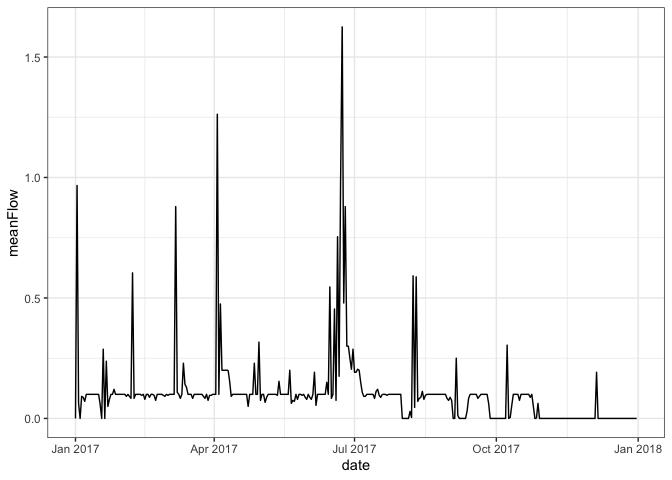
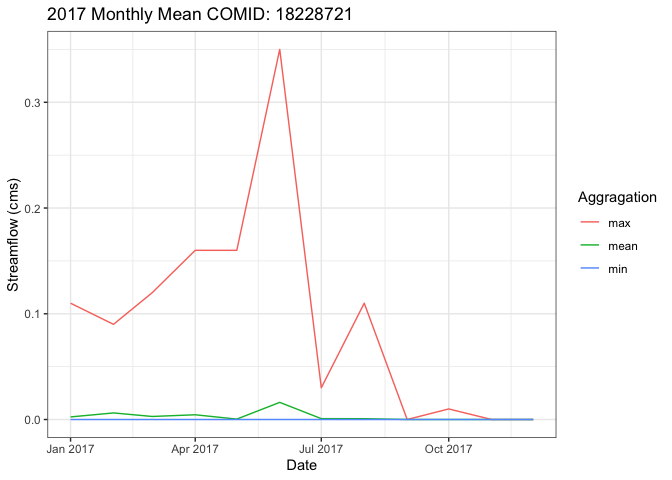
actually commit!

diff --git a/README.md b/README.md
@@ -18,7 +18,6 @@
     #> The following objects are masked from 'package:base':
     #> 
     #>     intersect, setdiff, setequal, union
-    #> USGS Support Package: https://owi.usgs.gov/R/packages.html#support
 
 ## Basic use
 
@@ -27,7 +26,7 @@ Lets find the historic flows nearest my home:
 ``` r
 
 pt  = AOI::geocode('University of Alabama', pt = TRUE) 
-comid = nhdplusTools::discover_nhdplus_id(pt)
+comid = discover_comid(pt)
 nhd = HydroData::findNHD(comid = comid)
 #> Returned object contains: 1 nhd flowlines
 
@@ -39,43 +38,51 @@ aoi_map(pt, returnMap = TRUE) %>% addPolylines(data = nhd$nhd)
 <img src="man/figures/README-unnamed-chunk-3-1.png" width="75%" />
 
 ``` r
-out = extract_retro_url(comid = comid)
+out = readNWMdata(comid = comid)
 
 head(out)
-#>   model    comid            time_utc flow year month day hour
-#> 1 NWM20 18228721 1993-01-01 00:00:00  0.2 1993    01  01   00
-#> 2 NWM20 18228721 1993-01-01 01:00:00  0.2 1993    01  01   01
-#> 3 NWM20 18228721 1993-01-01 02:00:00  0.2 1993    01  01   02
-#> 4 NWM20 18228721 1993-01-01 03:00:00  0.2 1993    01  01   03
-#> 5 NWM20 18228721 1993-01-01 04:00:00  0.2 1993    01  01   04
-#> 6 NWM20 18228721 1993-01-01 05:00:00  0.2 1993    01  01   05
+#> # A tibble: 6 x 4
+#>   model    comid time_utc             flow
+#>   <fct>    <int> <dttm>              <dbl>
+#> 1 NWM20 18228721 1993-01-01 00:00:00     0
+#> 2 NWM20 18228721 1993-01-01 01:00:00     0
+#> 3 NWM20 18228721 1993-01-01 02:00:00     0
+#> 4 NWM20 18228721 1993-01-01 03:00:00     0
+#> 5 NWM20 18228721 1993-01-01 04:00:00     0
+#> 6 NWM20 18228721 1993-01-01 05:00:00     0
 dim(out)
-#> [1] 219144      8
+#> [1] 219144      4
 ```
 
 ``` r
 
-sub = extract_retro_url(comid = comid, 
-startDate = "2017-01-01", endDate = "2017-12-31")
+sub = readNWMdata(comid = comid, 
+startDate = "2017-01-01", 
+endDate = "2017-12-31")
 
 head(sub)
-#>   model    comid            time_utc flow year month day hour
-#> 1 NWM20 18228721 2017-01-01 00:00:00    0 2017    01  01   00
-#> 2 NWM20 18228721 2017-01-01 01:00:00    0 2017    01  01   01
-#> 3 NWM20 18228721 2017-01-01 02:00:00    0 2017    01  01   02
-#> 4 NWM20 18228721 2017-01-01 03:00:00    0 2017    01  01   03
-#> 5 NWM20 18228721 2017-01-01 04:00:00    0 2017    01  01   04
-#> 6 NWM20 18228721 2017-01-01 05:00:00    0 2017    01  01   05
-dim(out)
-#> [1] 219144      8
+#> # A tibble: 6 x 4
+#>   model    comid time_utc             flow
+#>   <fct>    <int> <dttm>              <dbl>
+#> 1 NWM20 18228721 2017-01-01 00:00:00     0
+#> 2 NWM20 18228721 2017-01-01 01:00:00     0
+#> 3 NWM20 18228721 2017-01-01 02:00:00     0
+#> 4 NWM20 18228721 2017-01-01 03:00:00     0
+#> 5 NWM20 18228721 2017-01-01 04:00:00     0
+#> 6 NWM20 18228721 2017-01-01 05:00:00     0
+dim(sub)
+#> [1] 8760    4
 
-sub_daily = sub %>% 
-  group_by(year,month,day) %>% 
-  summarise(meanFlow = mean(flow)) %>% 
-  mutate(date = as.Date(paste(year,month,day,sep = "-")))
+sub_summary = sub %>% aggregate_monthly(FUN = c("max", "mean", "min"))
+sub = reshape2::melt(sub_summary, c('comid', "time_utc"))
 
-ggplot(data = sub_daily, aes(x = date, y = meanFlow, group = 1)) +
+
+ggplot(data = sub, aes(x = time_utc, y = value, color = variable)) +
   geom_line() + 
+  labs(title = paste0("2017 Monthly Mean COMID: ", comid),
+       x = "Date",
+       y = "Streamflow (cms)",
+       color = "Aggragation") +
   theme_bw() 
 ```
 
